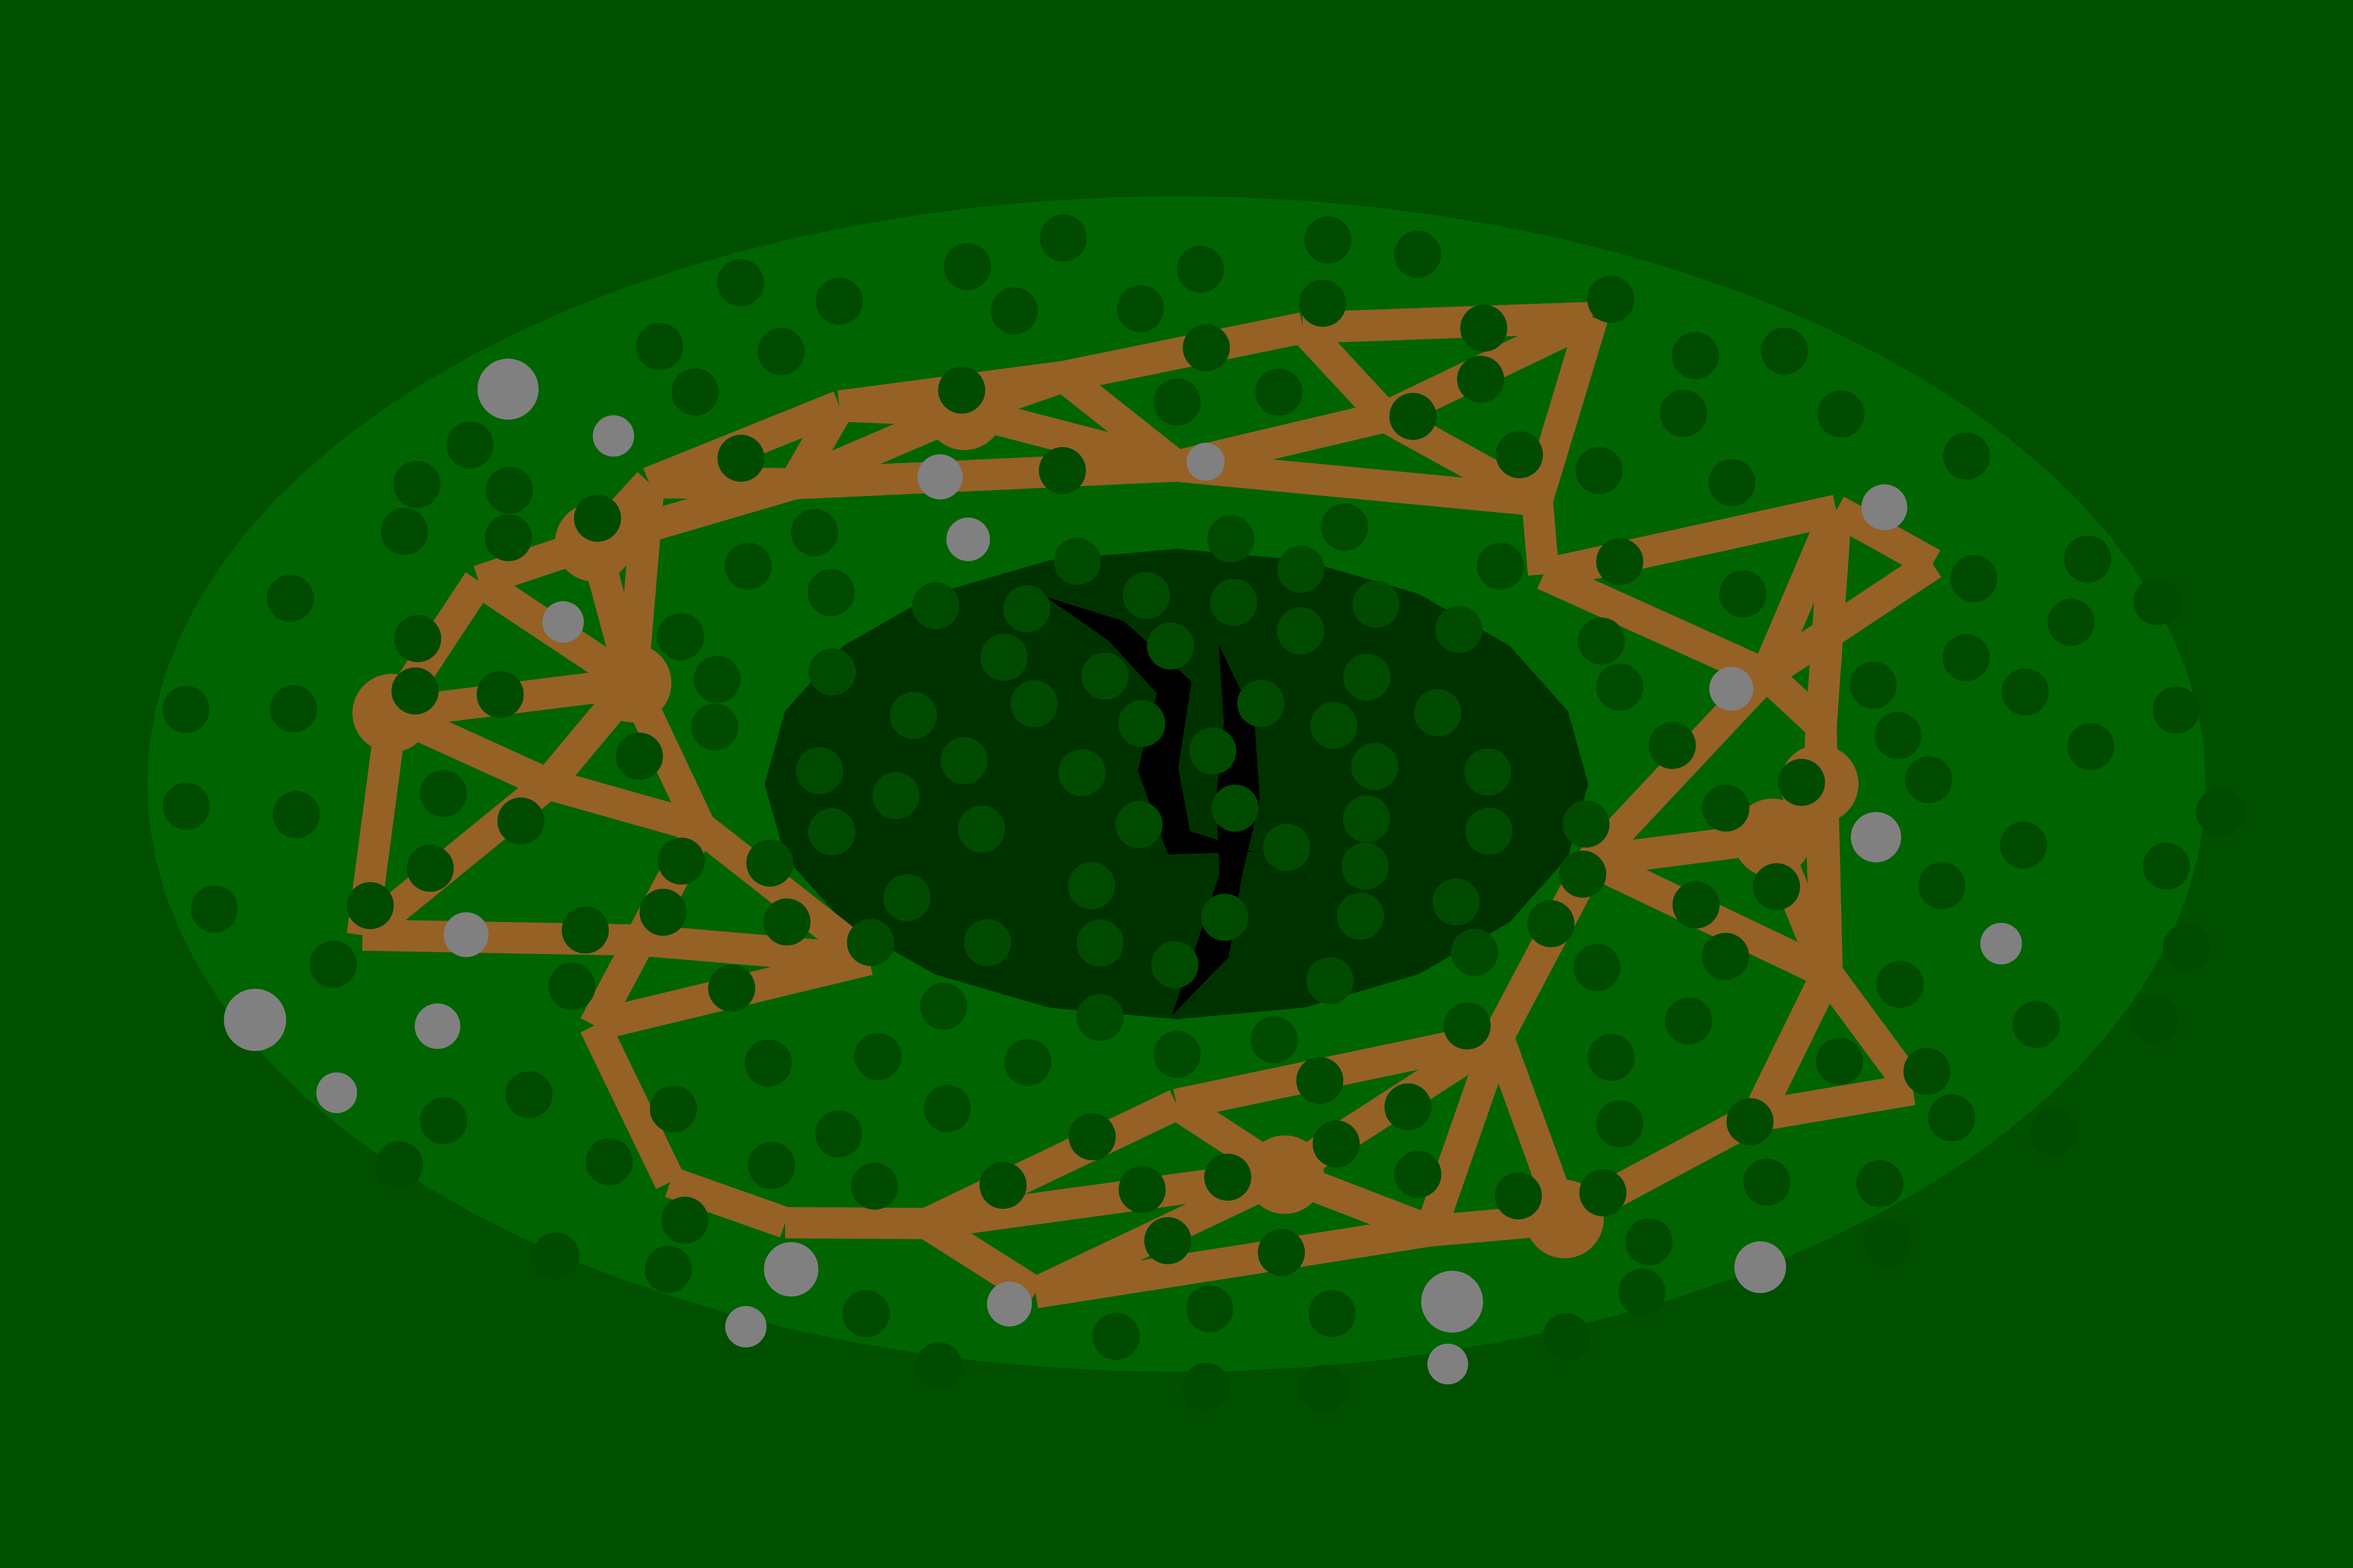
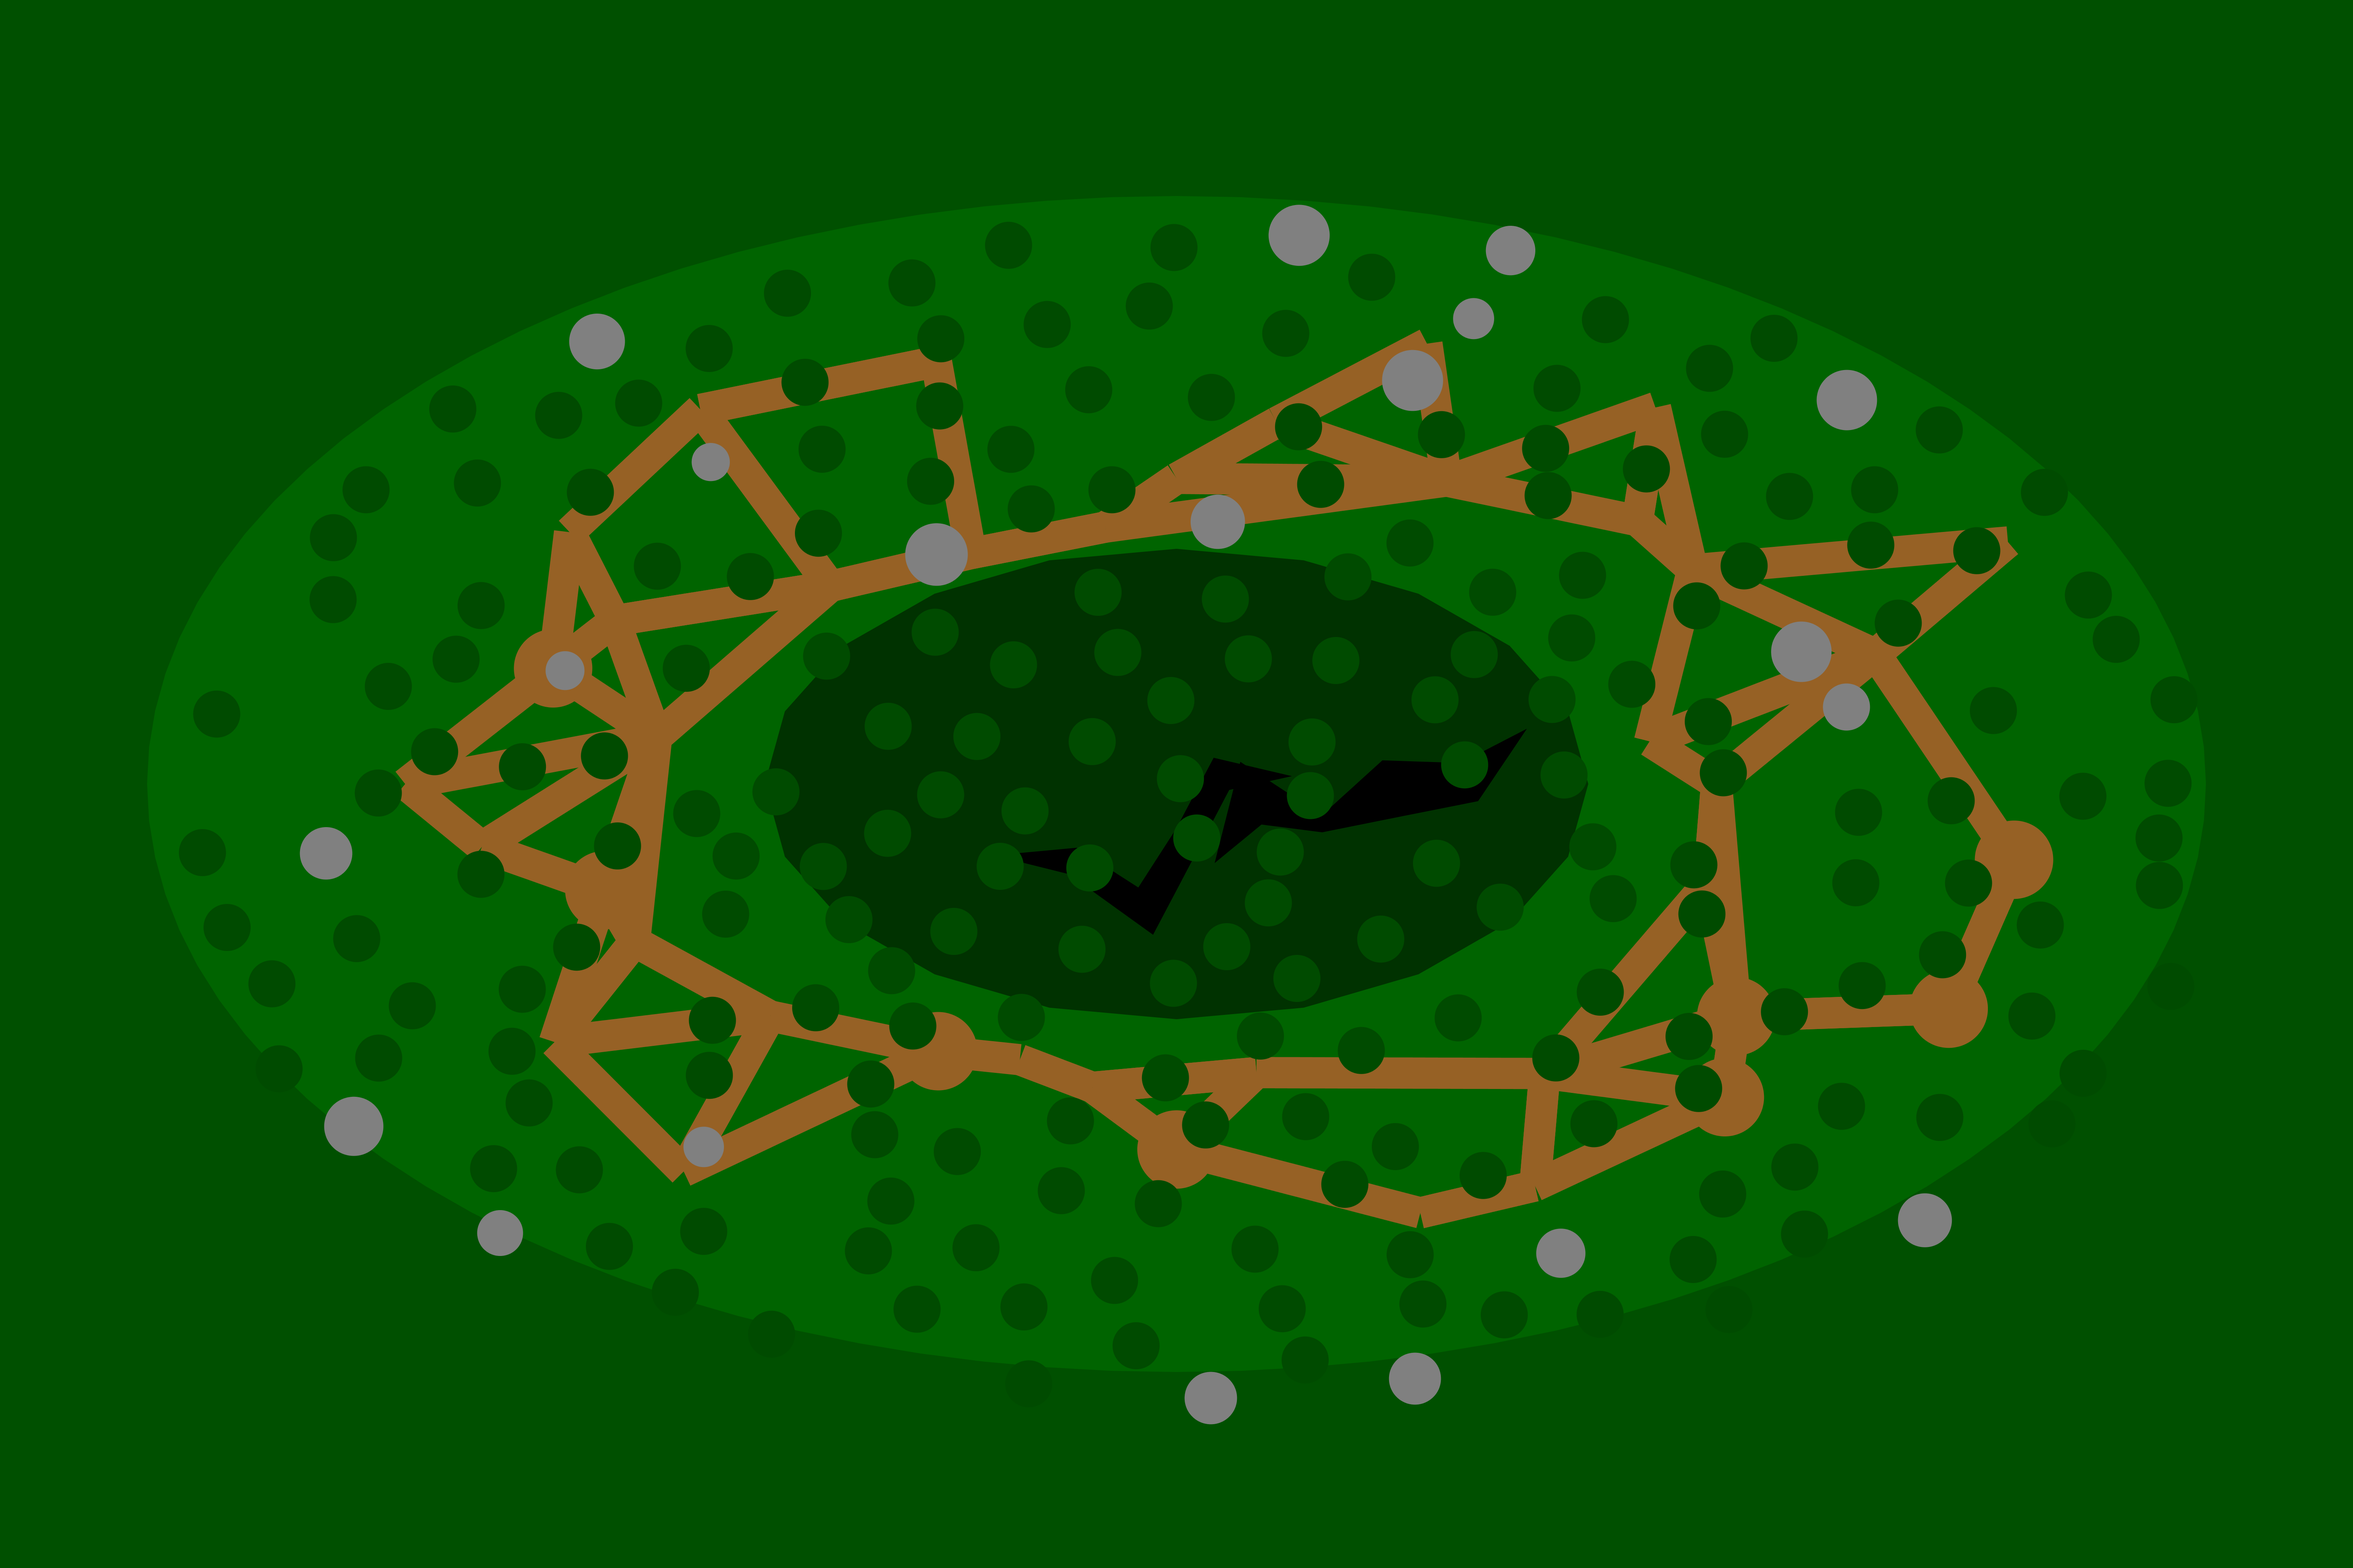
There were errors apparently
I apolgize, I don't know how this happened. Perhaps something went wrong while I was changing which branch to push.

Changed region(s): [[0.0623, 0.125, 0.935, 0.9062], [0.8727, 0.6562, 0.9038, 0.6875]]

diff --git a/src/server/MapGen.java b/src/server/MapGen.java
@@ -78,25 +78,6 @@ public class MapGen {
     	this.nodes.add(node1);
     	this.nodes.add(node2);
     }
-
-	public void selfInitialize() {
-		int loopRadiusSize = 10;
-		int nodeGenRange = 3750;
-		double nodeGenStDev = 0.5;
-
-
-		this.generateMap2(40,loopRadiusSize,nodeGenRange,nodeGenStDev);
-		this.tetherAllNodes2();
-		this.makeNodesElliptical();
-		this.generateRegions();
-		this.generateCrevices(2);
-		this.insertArtifactClearing();
-		this.smokeTrees(7500, 7500, 0, false);
-		this.smokeRocks(7500, 100, true);
-		this.makeObstaclesElliptical();
-		this.genClearingByNum(8, 500);
-		this.purgeRedundanices();
-	}
     
     public void generateRegions() {
     	this.regionLayer = new RegionLayer();
@@ -556,7 +537,7 @@ public class MapGen {
     	Region creation = null;
     	
     	for (int iter = 0; iter < creviceNum; iter++) {
-    		source = new Point((int) (Math.random()*7000 - 3500),(int) (Math.random()*7000 - 3500));
+    		source = new Point((int) (Math.random()*6000 - 3000),(int) (Math.random()*6000 - 3000));
     		
 			do {
 				creviceEngine.generateFullCrevice(source,1000,1.0,4,true,500);

diff --git a/src/server/Obstacle.java b/src/server/Obstacle.java
@@ -7,5 +7,7 @@ public class Obstacle {
 	public Point location;
 	public String type;
 	public int radius;
+
+	public java.awt.Polygon boundingBox;
 	
 }
